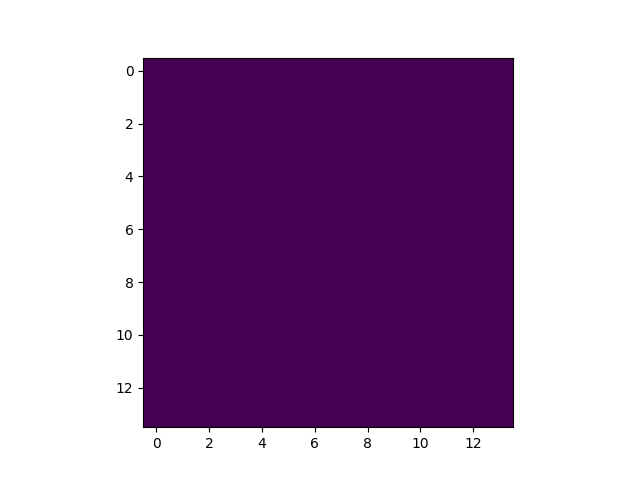
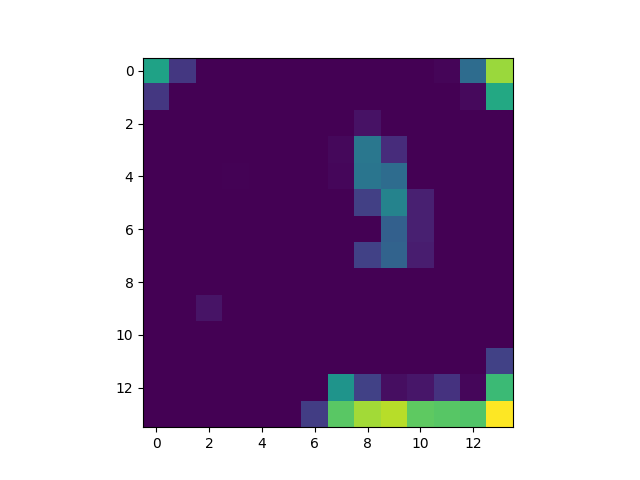
add

diff --git a/main.py b/main.py
@@ -162,7 +162,7 @@ vis_data = DataLoader(
 def imshow(img,name):
     """Imshow for Tensor."""
     npimg = img.numpy()
-    plt.imshow(npimg, interpolation='nearest')
+    plt.imshow(np.transpose(npimg), interpolation='nearest')
     plt.pause(0.001)  # pause a bit so that plots are updated
     plt.savefig(name)
 	
@@ -170,10 +170,8 @@ def imshow(img,name):
 vis_inputs, vis_classes = next(iter(vis_data))
 # Make a grid from batch
 out = torchvision.utils.make_grid(vis_inputs)
-out = out.numpy()
-out = np.transpose(out)
-
-#imshow(out, 'foo.png')
+print(out)
+imshow(out, 'foo.png')
 model_ft = model_ft.features
 model_ft.eval()
 x = Variable(vis_inputs)
